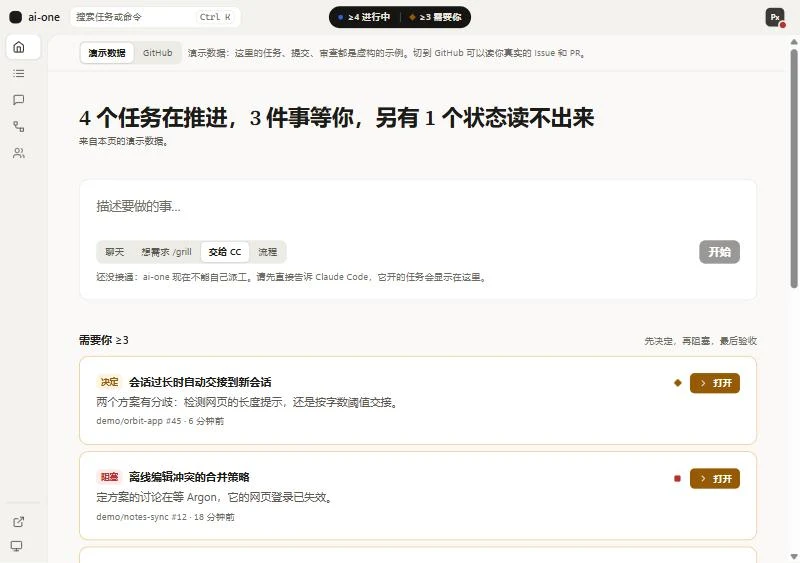
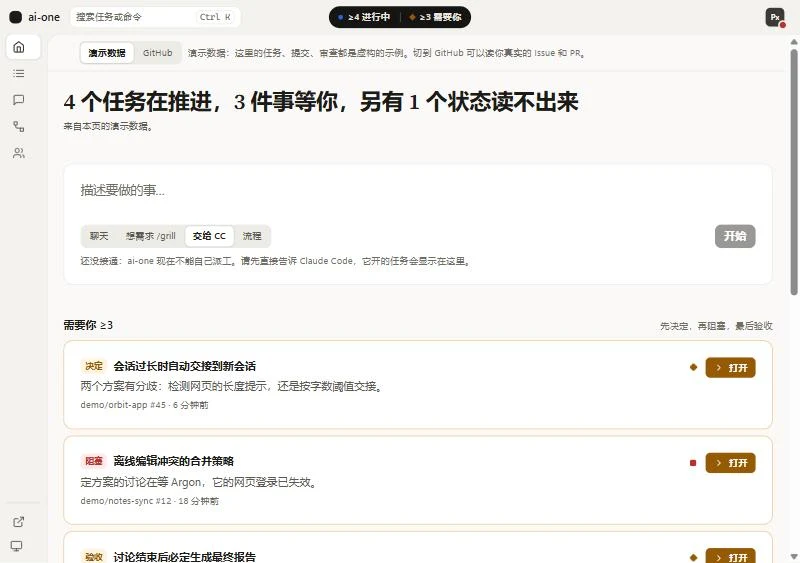
fix(#105): 页面留白随宽度分三档；字体许可文本改用 Adobe 官方 OFL
- 页面外边距 ≥1320 为 40、1100–1320 为 28、<1100 为 20（令牌 page / pageMid / pageNarrow，视图用响应式类）
- OFL.txt 换成 Source Serif 官方许可（Adobe 版权与保留字体名），NOTICE 统一
- 画廊正文字号标注改为 14

diff --git a/src/ui/v2/tokens.ts b/src/ui/v2/tokens.ts
@@ -55,7 +55,7 @@ export interface V2ShapeTokens {
   font: { sans: string; mono: string; serif: string };
   /** Type scale: page title · task title · "now" line · body · reading (serif long text) · meta · micro. */
   text: { title: string; heading: string; lead: string; body: string; reading: string; meta: string; micro: string };
-  space: { xs: string; sm: string; md: string; lg: string; xl: string; card: string; page: string; section: string };
+  space: { xs: string; sm: string; md: string; lg: string; xl: string; card: string; page: string; pageMid: string; pageNarrow: string; section: string };
   /** Control heights. */
   control: { sm: string; md: string; lg: string };
 }
@@ -89,7 +89,7 @@ const PAPER: V2Skin = {
     radius: { sm: '6px', md: '8px', lg: '12px', xl: '16px', pill: '999px' },
     font: { sans: FONT_SANS, mono: FONT_MONO, serif: FONT_SERIF },
     text: TEXT_SCALE,
-    space: { xs: '4px', sm: '8px', md: '12px', lg: '20px', xl: '32px', card: '22px', page: '40px', section: '40px' },
+    space: { xs: '4px', sm: '8px', md: '12px', lg: '20px', xl: '32px', card: '22px', page: '40px', pageMid: '28px', pageNarrow: '20px', section: '40px' },
     control: { sm: '26px', md: '30px', lg: '34px' },
   },
   light: {
@@ -196,7 +196,7 @@ const MIST: V2Skin = {
     radius: { sm: '8px', md: '10px', lg: '14px', xl: '20px', pill: '999px' },
     font: { sans: FONT_SANS, mono: FONT_MONO, serif: FONT_SERIF },
     text: { ...TEXT_SCALE, body: '14.5px', meta: '12.5px' },
-    space: { xs: '4px', sm: '8px', md: '14px', lg: '22px', xl: '34px', card: '24px', page: '44px', section: '44px' },
+    space: { xs: '4px', sm: '8px', md: '14px', lg: '22px', xl: '34px', card: '24px', page: '44px', pageMid: '32px', pageNarrow: '22px', section: '44px' },
     control: { sm: '28px', md: '32px', lg: '38px' },
   },
   light: {
@@ -314,7 +314,7 @@ export function v2CssVariables(skinId: V2SkinId, mode: V2Mode): Record<string, s
   for (const [key, value] of Object.entries(skin.shape.radius)) vars[`--v2-radius-${key}`] = value;
   for (const [key, value] of Object.entries(skin.shape.font)) vars[`--v2-font-${key}`] = value;
   for (const [key, value] of Object.entries(skin.shape.text)) vars[`--v2-text-${key}`] = value;
-  for (const [key, value] of Object.entries(skin.shape.space)) vars[`--v2-space-${key}`] = value;
+  for (const [key, value] of Object.entries(skin.shape.space)) vars[`--v2-space-${kebab(key)}`] = value;
   for (const [key, value] of Object.entries(skin.shape.control)) vars[`--v2-control-${key}`] = value;
   return vars;
 }

diff --git a/src/__tests__/v2-tokens.test.ts b/src/__tests__/v2-tokens.test.ts
@@ -100,12 +100,32 @@ describe('v2 design tokens', () => {
       }
     });
 
+    it('steps page padding down with the window: 40 wide, 28 mid, 20 narrow (design 2.1), on every page view', () => {
+      for (const id of V2_SKIN_IDS) {
+        const v = v2CssVariables(id, 'light');
+        const [narrow, mid, wide] = [v['--v2-space-page-narrow'], v['--v2-space-page-mid'], v['--v2-space-page']].map((x) => parseInt(x, 10));
+        expect(narrow, id).toBeLessThan(mid);
+        expect(mid, id).toBeLessThan(wide);
+      }
+      const paper = v2CssVariables('paper', 'light');
+      expect([paper['--v2-space-page-narrow'], paper['--v2-space-page-mid'], paper['--v2-space-page']]).toEqual(['20px', '28px', '40px']);
+      for (const view of ['HomeView', 'TasksView', 'TaskView', 'ResourcesView', 'PlannedView']) {
+        const src = readFileSync(new URL(`../workbench/views/${view}.tsx`, import.meta.url), 'utf8');
+        expect(src, view).toContain('p-v2-page-narrow min-[1100px]:p-v2-page-mid min-[1320px]:p-v2-page');
+        // every page padding is the responsive triple; no bare `p-v2-page` left over
+        expect(src.split('p-v2-page-narrow').length, view).toBe(src.split('min-[1320px]:p-v2-page').length);
+        expect(src.match(/(?<![:-])p-v2-page(?![-\w])/g) ?? [], view).toEqual([]);
+      }
+    });
+
     it('ships the font file and its licence next to the stylesheet that loads it', () => {
       const css = readFileSync(new URL('../ui/v2/fonts.css', import.meta.url), 'utf8');
       const file = css.match(/url\("([^"]+\.woff2)"\)/)?.[1];
       expect(file).toBeTruthy();
       expect(() => readFileSync(new URL(file!, new URL('../ui/v2/fonts.css', import.meta.url)))).not.toThrow();
-      expect(readFileSync(new URL('../assets/fonts/source-serif-4/OFL.txt', import.meta.url), 'utf8')).toContain('SIL Open Font License');
+      const ofl = readFileSync(new URL('../assets/fonts/source-serif-4/OFL.txt', import.meta.url), 'utf8');
+      expect(ofl).toContain('SIL OPEN FONT LICENSE');
+      expect(ofl).toContain('Adobe');
     });
   });
 });

diff --git a/src/workbench/views/TaskView.tsx b/src/workbench/views/TaskView.tsx
@@ -20,7 +20,7 @@ export function TaskView({ locale, task, onBack }: TaskViewProps) {
   const hud = taskHudText(locale);
   return (
     <div className="grid min-h-full min-[1320px]:grid-cols-[minmax(0,1fr)_300px]">
-      <div className="mx-auto grid w-full max-w-[920px] content-start gap-v2-section p-v2-page">
+      <div className="mx-auto grid w-full max-w-[920px] content-start gap-v2-section p-v2-page-narrow min-[1100px]:p-v2-page-mid min-[1320px]:p-v2-page">
         <nav aria-label="breadcrumb" className="flex flex-wrap items-center gap-v2-sm text-v2-meta text-v2-ink-3">
           <Button size="sm" variant="ghost" onClick={onBack} icon={<Icon name="arrowLeft" size={14} />}>
             {text.t('backToTasks')}
@@ -101,7 +101,7 @@ export function TaskView({ locale, task, onBack }: TaskViewProps) {
         </section>
       </div>
 
-      <aside aria-label={text.t('delivery')} className="border-v2-line bg-v2-panel p-v2-page min-[1320px]:border-l">
+      <aside aria-label={text.t('delivery')} className="border-v2-line bg-v2-panel p-v2-page-narrow min-[1100px]:p-v2-page-mid min-[1320px]:p-v2-page min-[1320px]:border-l">
         <SectionHeader level={3} title={text.t('delivery')} />
         <dl className="mt-v2-sm grid gap-v2-sm text-v2-meta">
           <Fact label={text.t('issue')}>{task.issue ? `#${task.issue}` : text.t('unknownValue')}</Fact>

diff --git a/src/ui/v2/gallery/V2Gallery.tsx b/src/ui/v2/gallery/V2Gallery.tsx
@@ -248,7 +248,7 @@ function GallerySections({ skin, mode, compact }: { skin: V2SkinId; mode: V2Mode
           <span className="text-v2-title">页面标题 28 · 衬线 · 3 个任务在推进</span>
           <span className="text-v2-heading">任务标题 20 · 衬线 · 讨论结束后必定生成最终报告</span>
           <span className="text-v2-lead">现在 16 · 全部完成，等你验收。</span>
-          <span className="text-v2-body">正文 13 · 审计针对当前完整 HEAD，HEAD 变了就重审。</span>
+          <span className="text-v2-body">正文 14 · 审计针对当前完整 HEAD，HEAD 变了就重审。</span>
           <span className="text-v2-meta text-v2-ink-2">元信息 12 · ai-one #39 · 12 分钟前</span>
           <span className="font-v2-mono text-v2-meta text-v2-ink-2">等宽 · 7be41d2c9a0f3e5b8d1c4a6f2e9b0d3c5a7f1e2d</span>
         </div>

diff --git a/src/workbench/views/TasksView.tsx b/src/workbench/views/TasksView.tsx
@@ -24,7 +24,7 @@ export function TasksView({ locale, tasks, health, onOpenTask }: TasksViewProps)
   // Repository subtotals follow the active filter: the total for "all", counts by state otherwise.
   const groupPrecision = filter === 'all' ? health : categoryHealth(health, tasks);
   return (
-    <div className="mx-auto grid max-w-[1180px] gap-v2-section p-v2-page">
+    <div className="mx-auto grid max-w-[1180px] gap-v2-section p-v2-page-narrow min-[1100px]:p-v2-page-mid min-[1320px]:p-v2-page">
       <header className="flex flex-wrap items-end justify-between gap-v2-md">
         <h1 className="font-v2-serif text-v2-title text-v2-ink">{text.t('tasksTitle')}</h1>
         <SegmentedControl

diff --git a/src/workbench/views/PlannedView.tsx b/src/workbench/views/PlannedView.tsx
@@ -4,7 +4,7 @@ import { Badge, Card } from '../../ui/v2';
 /** Honest placeholder for a page whose parts are still being built (Spec #79 v2). */
 export function PlannedView({ title, body, badge, action }: { title: string; body: string; badge: string; action?: ReactNode }) {
   return (
-    <div className="mx-auto grid max-w-[720px] gap-v2-section p-v2-page">
+    <div className="mx-auto grid max-w-[720px] gap-v2-section p-v2-page-narrow min-[1100px]:p-v2-page-mid min-[1320px]:p-v2-page">
       <header className="flex flex-wrap items-center gap-v2-sm">
         <h1 className="font-v2-serif text-v2-title text-v2-ink">{title}</h1>
         <Badge tone="unknown">{badge}</Badge>

diff --git a/src/workbench/views/ResourcesView.tsx b/src/workbench/views/ResourcesView.tsx
@@ -24,7 +24,7 @@ export function ResourcesView({ locale, dispatch, repoPath, onSetRepo, onOpenCla
   const text = workbenchText(locale);
   const channel = channelView(dispatch);
   return (
-    <div className="mx-auto grid max-w-[1180px] gap-v2-section p-v2-page">
+    <div className="mx-auto grid max-w-[1180px] gap-v2-section p-v2-page-narrow min-[1100px]:p-v2-page-mid min-[1320px]:p-v2-page">
       <header>
         <h1 className="font-v2-serif text-v2-title text-v2-ink">{text.t('resourcesTitle')}</h1>
         <p className="mt-v2-xs text-v2-meta text-v2-ink-2">{text.t('resourcesSub')}</p>

diff --git a/src/workbench/views/HomeView.tsx b/src/workbench/views/HomeView.tsx
@@ -69,7 +69,7 @@ export function HomeView({ locale, tasks, health, channel, onOpenTask, onShowTas
           : text.t('headlineEmpty');
 
   return (
-    <div className="mx-auto grid max-w-[1180px] gap-v2-section p-v2-page">
+    <div className="mx-auto grid max-w-[1180px] gap-v2-section p-v2-page-narrow min-[1100px]:p-v2-page-mid min-[1320px]:p-v2-page">
       <header>
         <h1 className="font-v2-serif text-v2-title text-v2-ink">{title}</h1>
         <p className="mt-v2-xs text-v2-meta text-v2-ink-2">

diff --git a/tailwind.config.js b/tailwind.config.js
@@ -82,6 +82,8 @@ export default {
         'v2-section': 'var(--v2-space-section)',
         'v2-card': 'var(--v2-space-card)',
         'v2-page': 'var(--v2-space-page)',
+        'v2-page-mid': 'var(--v2-space-page-mid)',
+        'v2-page-narrow': 'var(--v2-space-page-narrow)',
         'v2-control-sm': 'var(--v2-control-sm)',
         'v2-control-md': 'var(--v2-control-md)',
         'v2-control-lg': 'var(--v2-control-lg)',

diff --git a/NOTICE.md b/NOTICE.md
@@ -25,5 +25,5 @@ The repository history and study notes retain more detailed provenance where app
 
 ## Source Serif 4 (bundled font)
 
-`src/assets/fonts/source-serif-4/source-serif-4-latin-wght-normal.woff2` is the Latin subset of Source Serif 4 (© Adobe, SIL Open Font License 1.1), taken unmodified from the npm package `@fontsource-variable/source-serif-4` 5.3.1. The licence text is in `src/assets/fonts/source-serif-4/OFL.txt`. It is used for display and reading text in the v2 workbench (#105).
+`src/assets/fonts/source-serif-4/source-serif-4-latin-wght-normal.woff2` is the Latin subset of Source Serif 4 (Copyright 2014–2023 Adobe, with Reserved Font Name ‘Source’; SIL Open Font License 1.1), taken unmodified from the npm package `@fontsource-variable/source-serif-4` 5.3.1. The licence text is in `src/assets/fonts/source-serif-4/OFL.txt`. It is used for display and reading text in the v2 workbench (#105).
 
